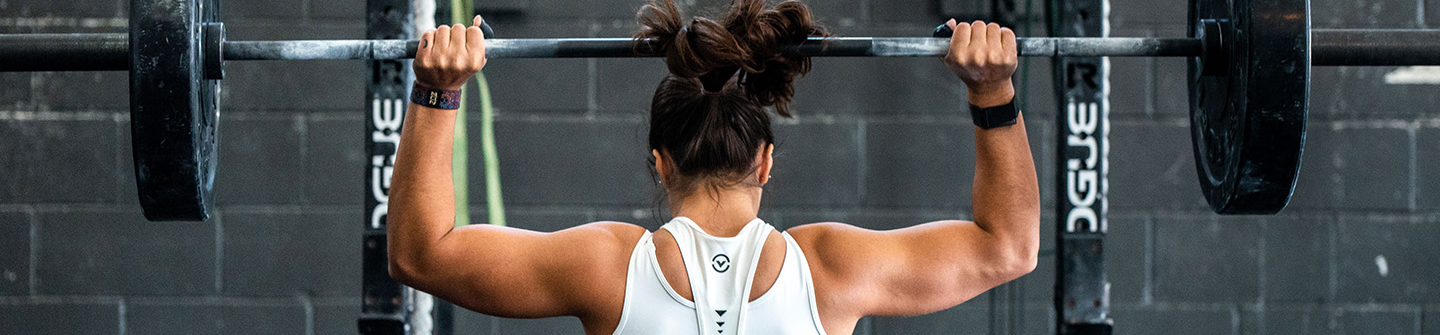
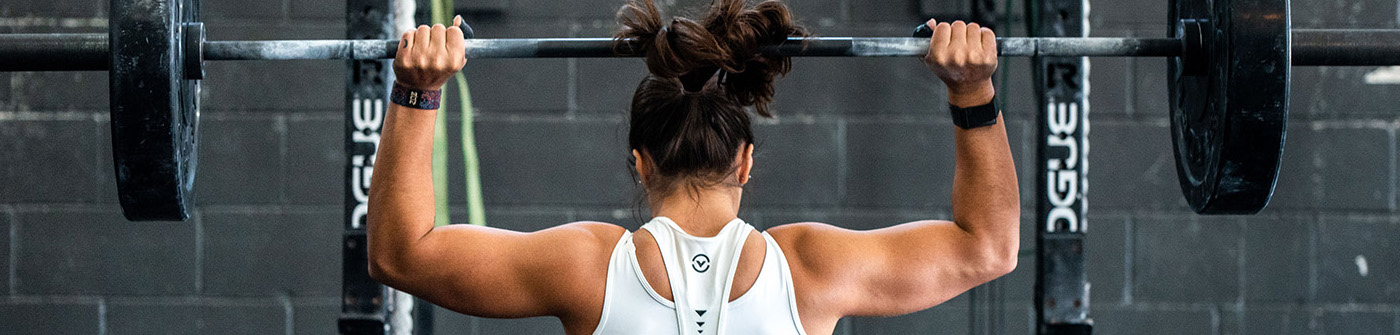
section to div change - validator

diff --git a/index.html b/index.html
@@ -40,15 +40,19 @@
     </header> 
 
     <main>
-        <section class="banner">
+        <div class="banner">
             <img src="pic/frontpage-banner-cut2.jpg" alt="">
-        </section>
+        </div>
+
+        <div class="banner-text">
+            <p>Alt til træning på SU</p>
+        </div>
 
         <section class="to-box">
             <div class="box-et">
                 <div class="box-text">
                     <h2>Kostplan</h2>
-                    <p>En simpel og billig kostplan, som passer dine mål og behov.</p>
+                    <h4>En simpel og billig kostplan, som passer dine mål og behov.</h4>
                     <p>Indtast et par oplysninger om din fysik samt dine mål og du vil få en skrædersyet kostplan som både gør din hverdag lettere, billigere og mere spændende.</p>
                 </div>
             </div>
@@ -64,11 +68,12 @@
                 <img src="pic/mealprep.jpg" alt="">
             </div>
             
+
             <div class="box-et">
                 <div class="box-text">
                     <h2>Tips og tricks</h2>
-                    <p></p>
-                    <p></p>
+                    <h4>Nyeste artikel inde for tips og tricks.</h4>
+                    <p>Læs om hvordan du strukturerer din hverdag i forhold til mealprep. Ved at lave flere måltider på en gang får du både mere tid i hverdagen og sparer på el-regningen.</p>
                 </div>
             </div>
 

diff --git a/style-opskrifter.css b/style-opskrifter.css
@@ -37,24 +37,74 @@
 
     position: relative;
     top: 45px;
-
-
 }
 
-/*menu box center*/
+
+
+.opskrift-nav a{
+    display: inline-block;
+    position: relative;
+    color: white;
+  }
+  
+.opskrift-nav a:after {
+    content: '';
+    position: absolute;
+    width: 100%;
+    transform: scaleX(0);
+    height: 4px;
+    bottom: 70px;
+    left: 0;
+    background-color: white;
+    transform-origin: bottom right;
+    transition: transform 0.25s ease-out;
+  }
+  
+.opskrift-nav a:hover:after {
+    transform: scaleX(1);
+    transform-origin: bottom left;
+  }
+
+
+
+  /*menu box center*/
 .text-pic{
     display: flex;
     justify-content: center;
 }
 
 
+.banner-text{
+    padding: 30px 80px;
+    background-color: rgba(255, 255, 255, 0.8);
+    width: 200px;
+    text-align: center;
+
+    font-family: 'Inter';
+    font-size: 30pt;
+    font-weight: 400;
+    
+
+    position: relative;
+    left: 550px;
+    bottom: 250px;
+}
+
+
 
 .s-overskrift{
-    margin-top: 140px;
+    margin-top: 20px;
+    margin-bottom: -20px;
 
     text-align: center;
     font-family: 'Inter';
     font-size: 18pt;
+
+
+}
+
+.s-overskrift h1{
+    font-weight: 400;
 }
 
 .pic-in-box{

diff --git a/style.css b/style.css
@@ -77,9 +77,28 @@ main{
 
 
 .banner img{
-    width: 100%;
+    width: 1425px;
     margin-bottom: -4px;
     
+}
+
+
+.banner-text{
+    padding: 20px 80px;
+    background-color: rgba(255, 255, 255, 0.8);
+    width: 300px;
+    text-align: center;
+
+    font-family: 'Inter';
+    font-size: 28pt;
+    font-weight: 400;
+    
+
+    position: relative;
+    left: 490px;
+    bottom: 250px;
+
+    margin-bottom: -130px;
 }
 
 
@@ -106,14 +125,22 @@ main{
 .box-text{
     margin-right: 80px;
     margin-left: 80px;
-    margin-top: 70px;
+    margin-top: 60px;
 }
 
 .box-text h2{
-    margin-bottom: 50px;
+    margin-bottom: 30px;
     font-family: 'Inter', sans-serif;
     font-weight: 600;
     font-size: 30pt;
+}
+
+.box-text h4{
+    margin-bottom: 40px;
+    font-family: 'Inter', sans-serif;
+    font-weight: 500;
+    font-size: 13pt;
+    line-height: 30px;
 }
 
 .box-text p{

diff --git a/berry-shake.html b/berry-shake.html
@@ -37,16 +37,16 @@
 
 
     <main>
-        <section class="banner">
+        <div class="banner">
             <img src="pic/berry-shake.jpg" alt="">
-        </section>
+        </div>
 
-        <section class="shake-banner">
+        <div class="shake-banner">
 
             <div class="shake-box">
                 <p>Berry protein shake</p>
             </div>
-        </section>
+        </div>
 
         <section>
             <div class="macros-banner">
@@ -132,8 +132,8 @@
         </section>
 
         <button class="cta">
-            <p>Køb proteinpulver her og støt vores magasin</p>
-        </div>
+            Køb proteinpulver her og støt vores magasin
+        </button>
 
     </main>
     

diff --git a/opskrifter.html b/opskrifter.html
@@ -37,7 +37,7 @@
     </header>
 
     <main>
-        <section class="banner">
+        <div class="banner">
             <div class="text-pic">
                 <img src="pic/opskrifter-banner.jpg" alt="Billede af quinorasalat med laks og bønner">
                 <nav class="opskrift-nav">
@@ -48,7 +48,13 @@
                     <a href="#">Vegetar</a>
                 </nav>
             </div>
-        </section>
+
+            <div class="banner-text">
+                <p>Opskrifter</p>
+            </div>
+        </div>
+
+
  
 
         <section class="s-overskrift">

diff --git a/style-berry-shake.css b/style-berry-shake.css
@@ -30,7 +30,7 @@
 
 .macros-pie{
     margin-left: 274px;
-    scale: 75%;
+    scale: 70%;
     margin-top: -45px;
 }
 
@@ -40,13 +40,13 @@
     grid-template-columns: 1fr 1fr;
     
     height: 200px;
-    width: 400px;
+    width: 370px;
 
-    margin-left: 145px;
+    margin-left: 172px;
 
-    /* Skal med?
-    background-color: #e3e3e3;
-    */
+   
+
+    
 }
 
 .t-l{

diff --git a/shakes.html b/shakes.html
@@ -39,12 +39,12 @@
 
     <Main>
 
-        <section class="shake-banner">
+        <div class="shake-banner">
 
             <div class="shake-box">
                 <p>Shakes</p>
             </div>
-        </section>
+        </div>
         
         <section>
             <h1>Mest populre shakes</h1>
